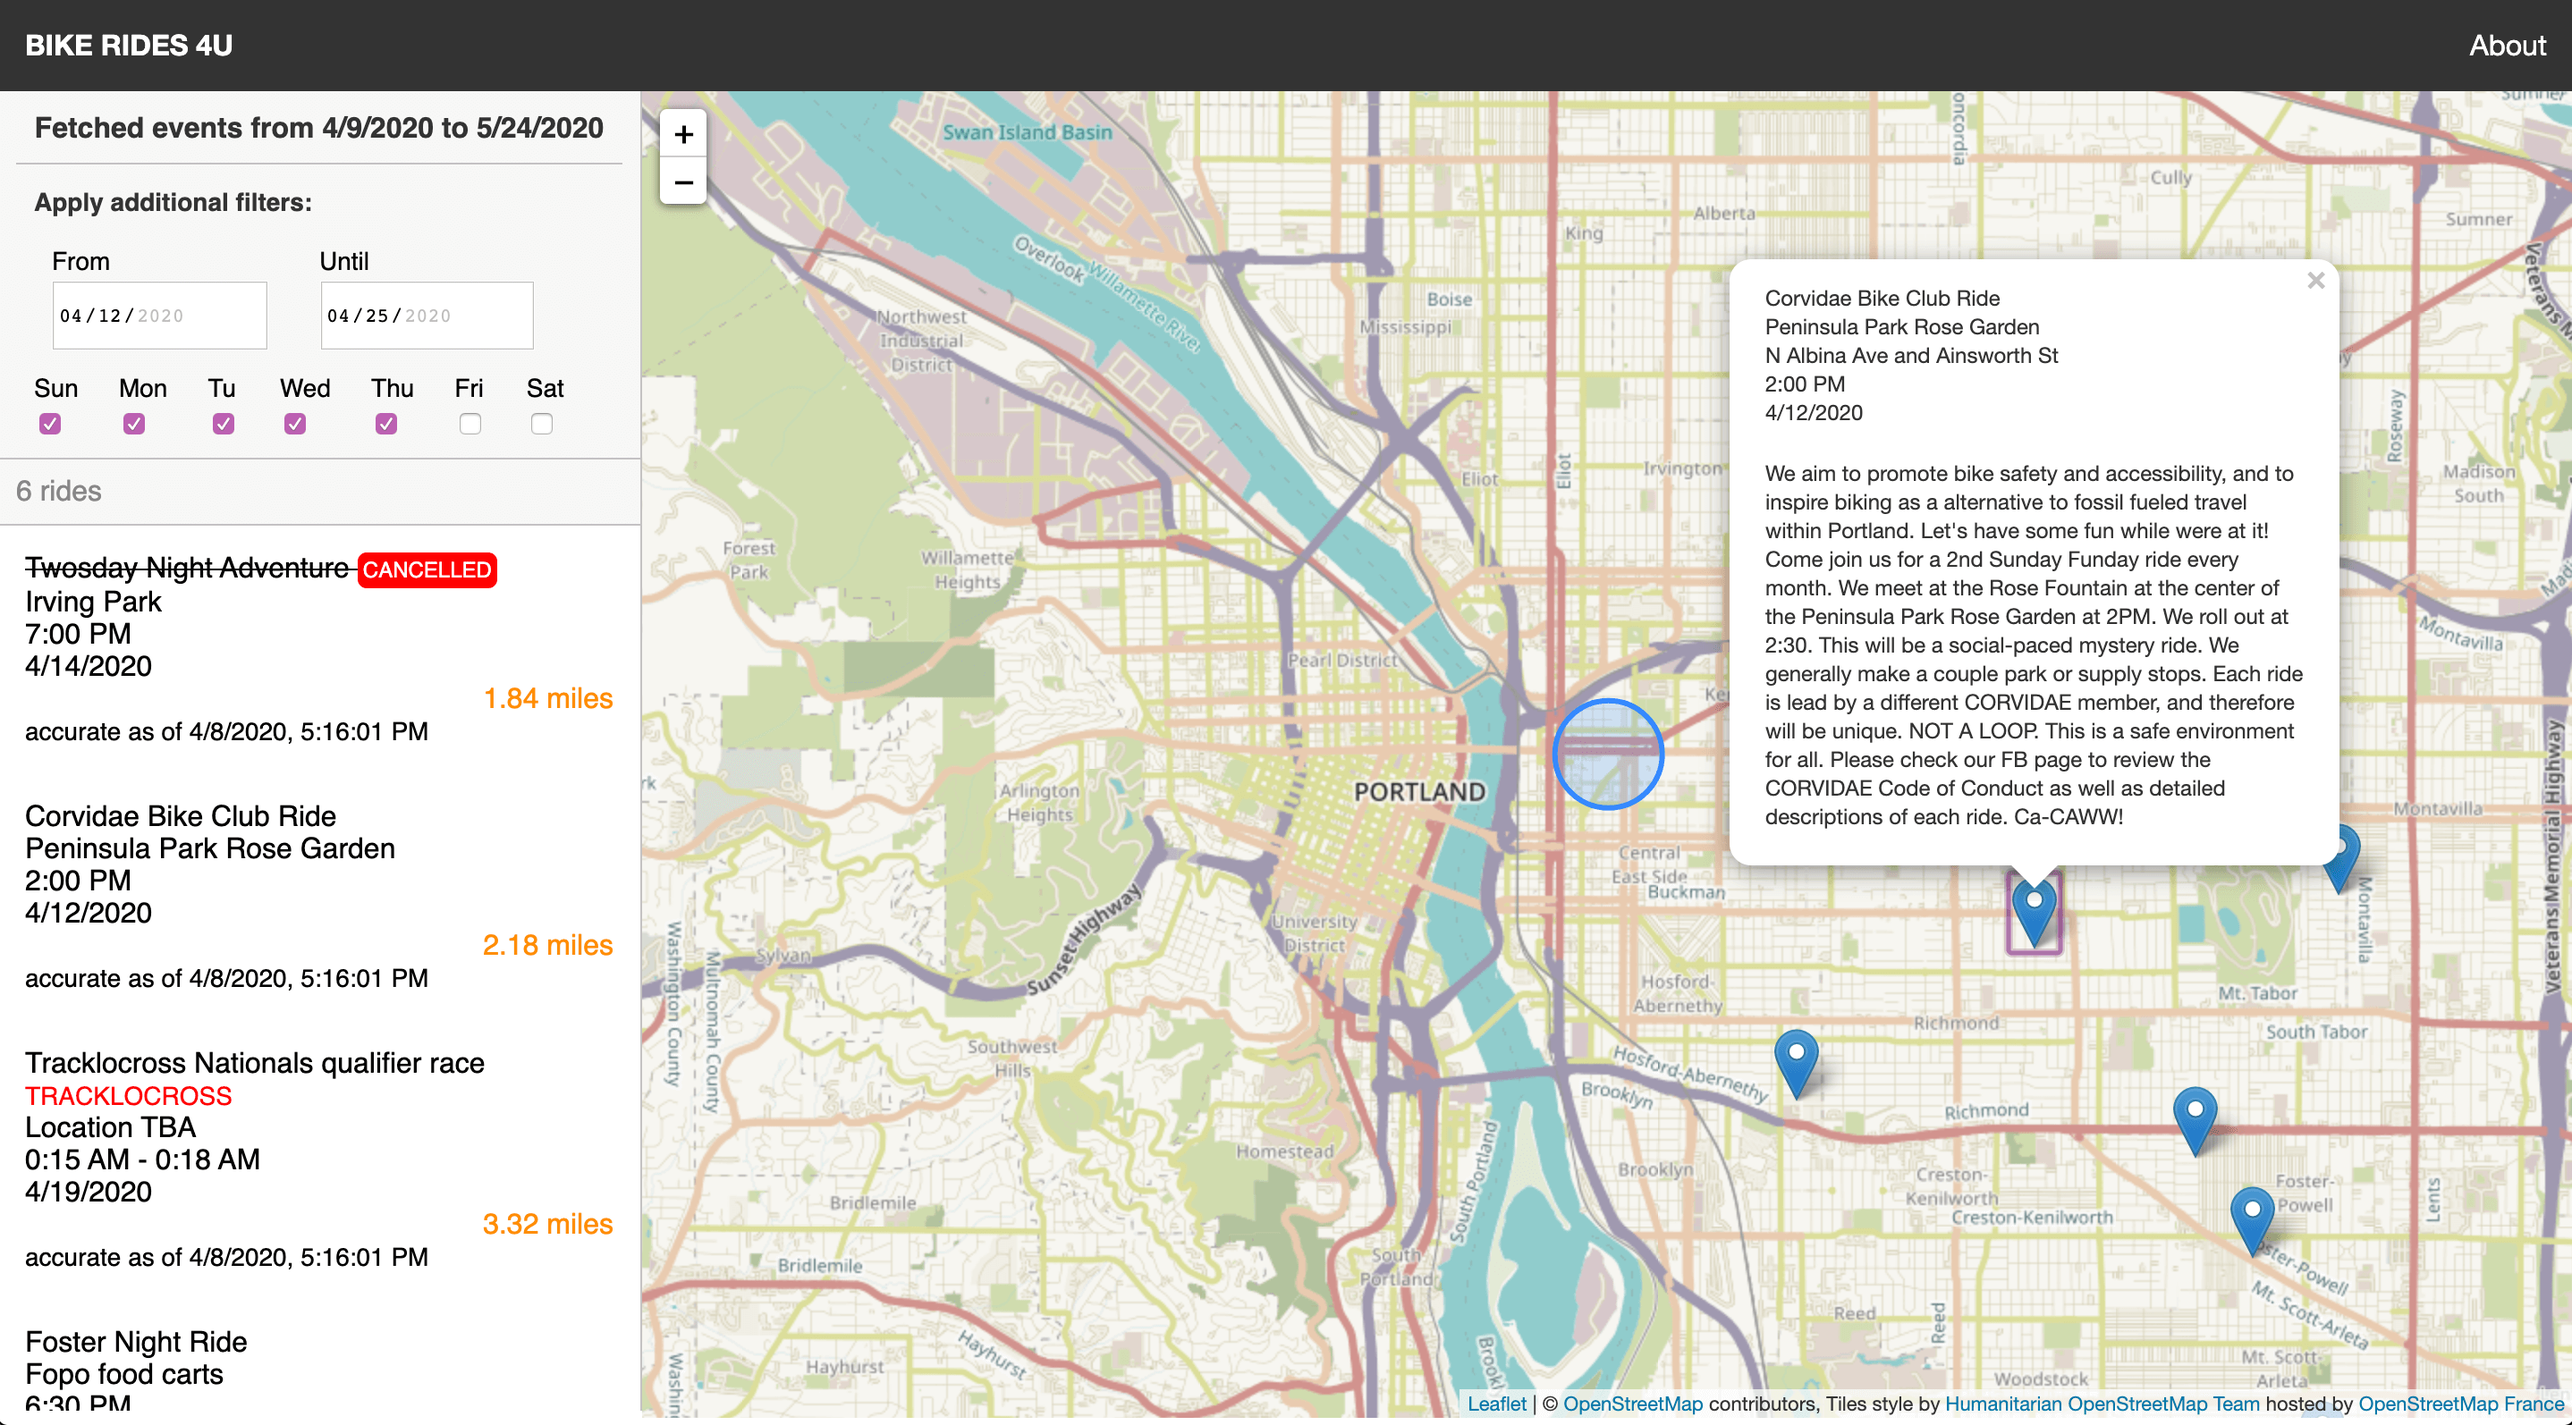
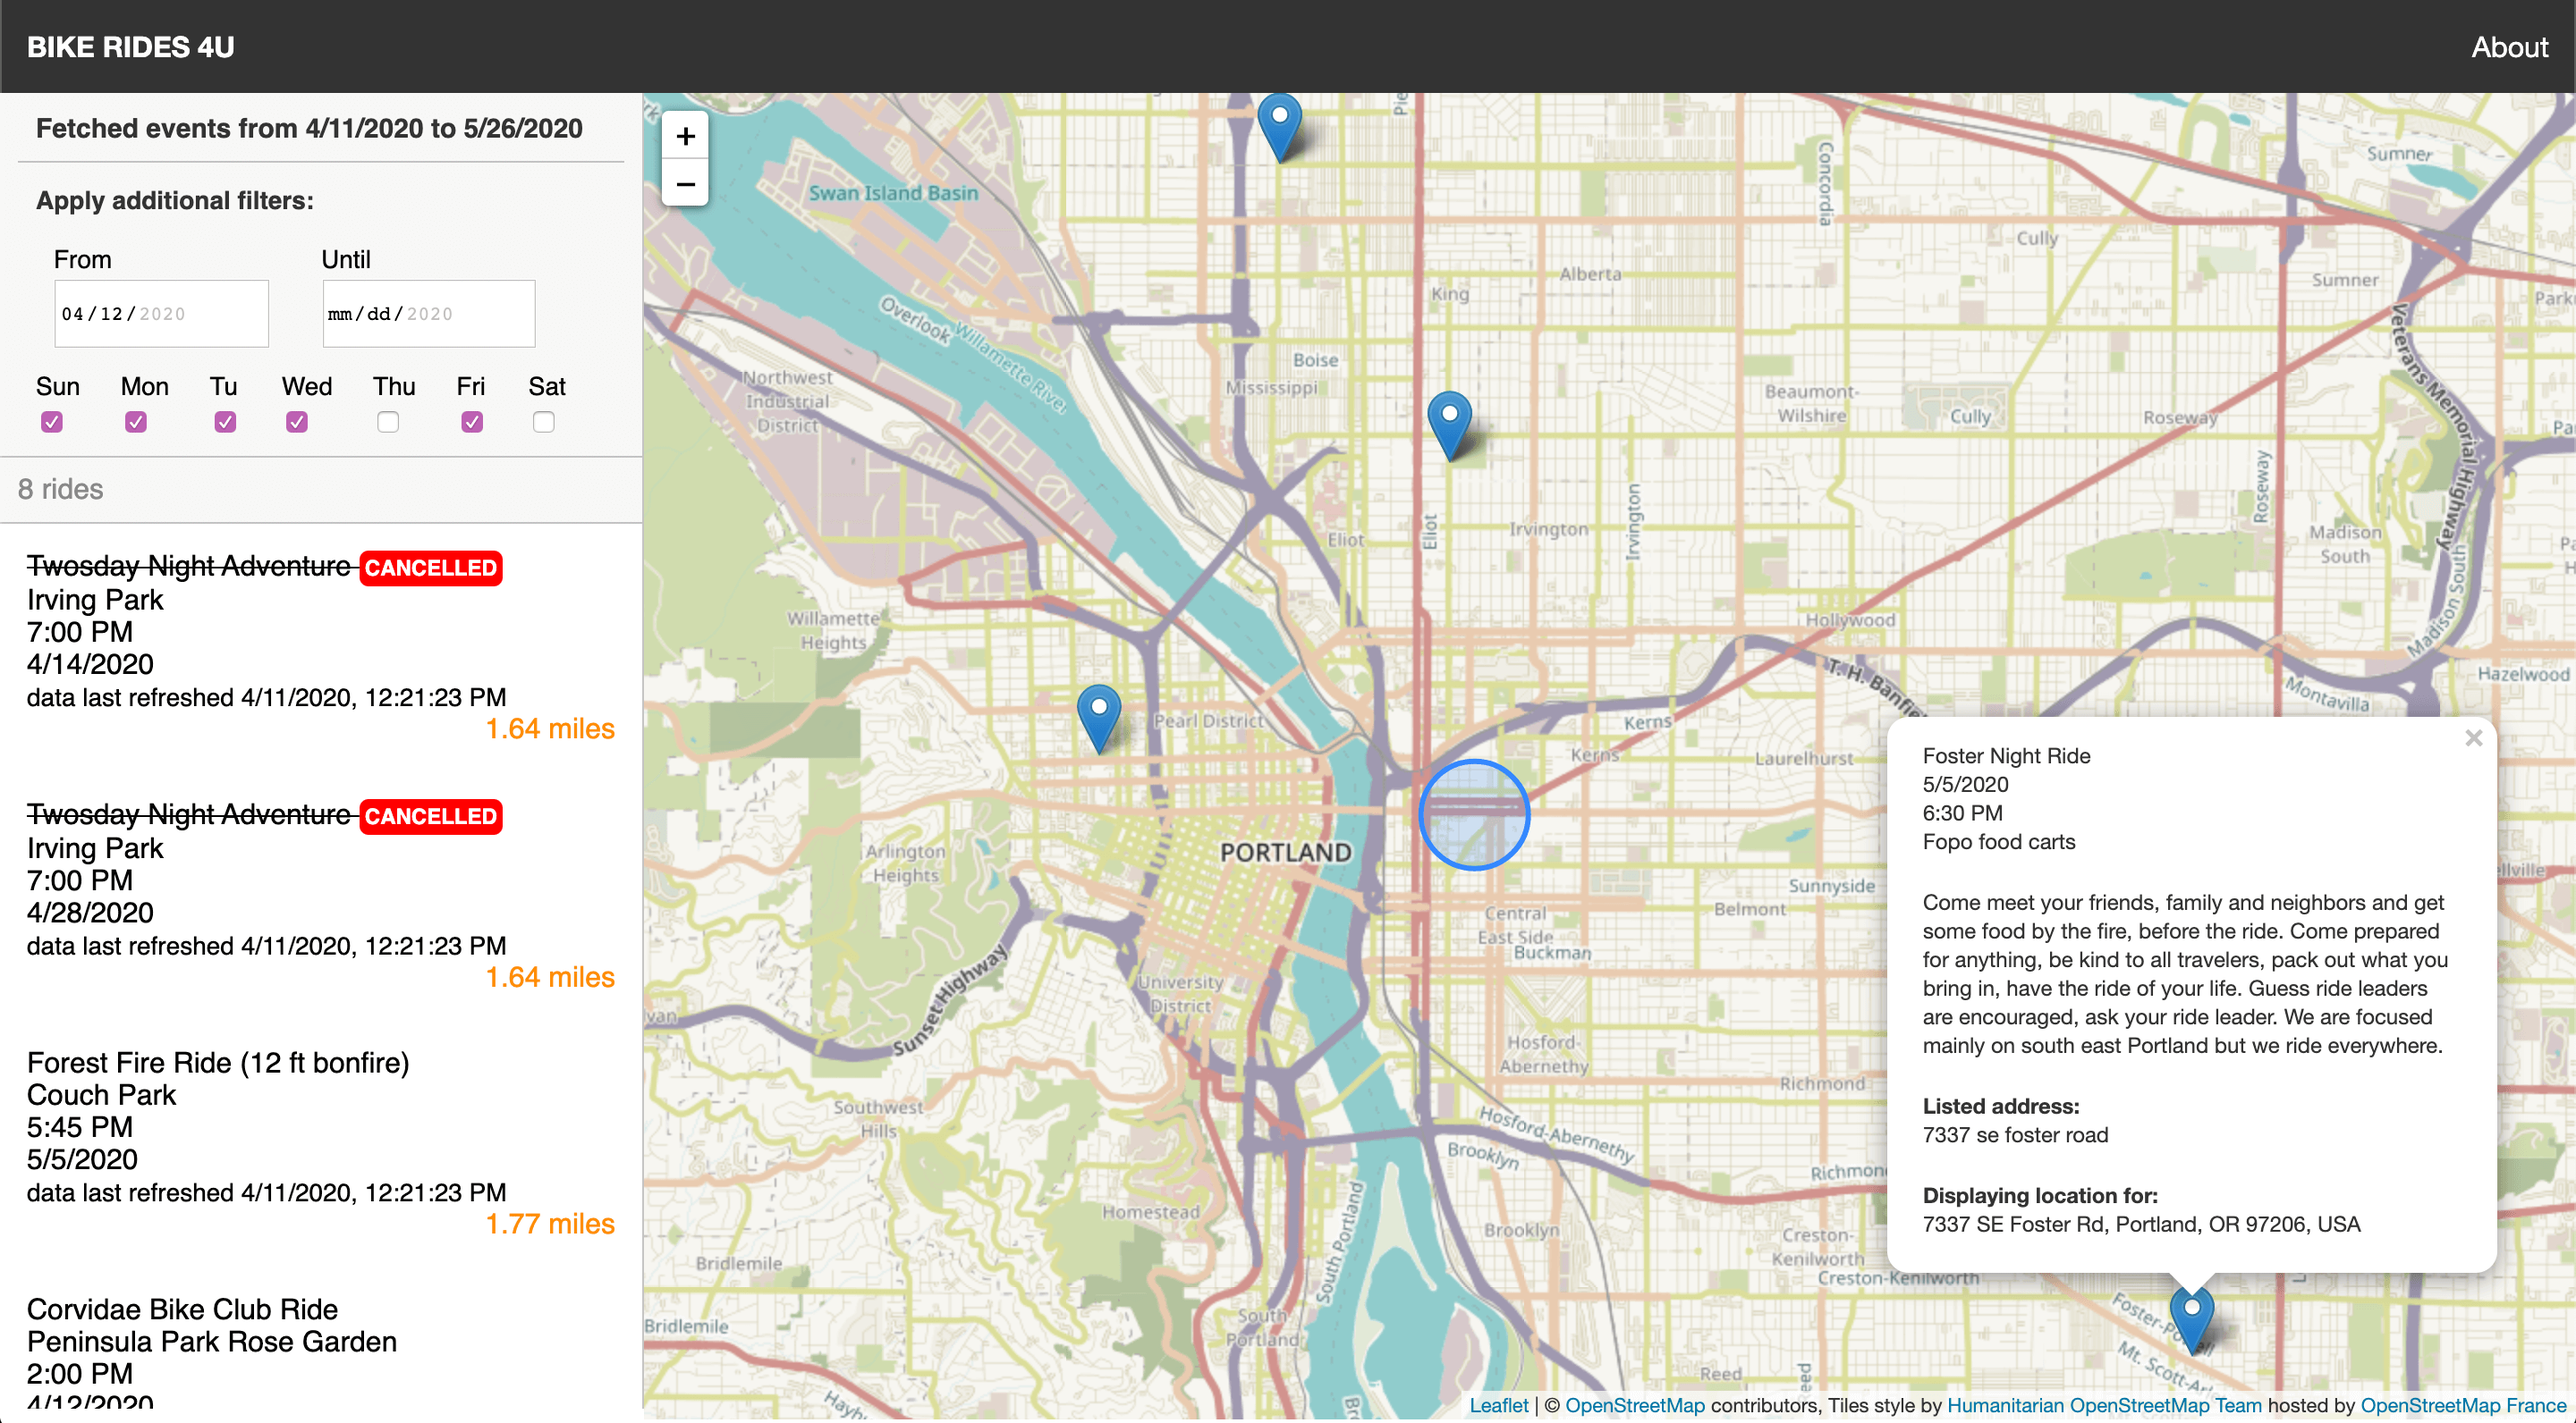
Fire map popup on list item click

diff --git a/src/components/Map.tsx b/src/components/Map.tsx
@@ -1,6 +1,7 @@
 import React, { Component } from 'react';
-import { Map as LeafletMap, TileLayer, Circle, Marker, Popup } from 'react-leaflet';
 import { LatLngTuple } from 'leaflet';
+import { Map as LeafletMap, TileLayer, Circle } from 'react-leaflet';
+import { Marker } from '.';
 import { Coordinate } from '../../br4u';
 import { FormattedEvent } from '../helpers/format-events';
 import './Map.css';
@@ -11,7 +12,7 @@ interface MapProps {
   selectedEventId?: string;
   points: FormattedEvent[];
 }
-export class Map extends Component<MapProps, {}> {
+export class Map extends Component<MapProps> {
   render(): JSX.Element {
     const { mapCenter, points, selectedEventId } = this.props;
     const position = [mapCenter.latitude, mapCenter.longitude] as LatLngTuple;
@@ -25,26 +26,7 @@ export class Map extends Component<MapProps, {}> {
           ></TileLayer>
           <Circle center={position} radius={400} />
           {points.map((point: FormattedEvent) => (
-            <div key={point.key}>
-              <Marker position={[point.latLng.latitude, point.latLng.longitude] as LatLngTuple}>
-                {/** FIXME: need to set some property...not isOpen..not sure what */}
-                <Popup isOpen={selectedEventId === point.id}>
-                  <div>{point.title}</div>
-                  <div>{point.friendlyDate}</div>
-                  <div>{point.times}</div>
-                  <div>{point.venue}</div>
-                  <p>{point.details}</p>
-                  <p>
-                    <strong>Listed address:</strong>
-                    <div>{point.address}</div>
-                  </p>
-                  <p>
-                    <strong>Displaying location for:</strong>
-                    <div>{point.geoLookupAddress}</div>
-                  </p>
-                </Popup>
-              </Marker>
-            </div>
+            <Marker isSelected={selectedEventId === point.id} point={point} key={point.key} />
           ))}
         </LeafletMap>
       </div>

diff --git a/src/components/Marker.tsx b/src/components/Marker.tsx
@@ -1,0 +1,49 @@
+import React, { createRef } from 'react';
+import { Marker as LeafletMarker, Popup } from 'react-leaflet';
+import { LatLngTuple } from 'leaflet';
+import { FormattedEvent } from '../helpers/format-events';
+
+interface MarkerProps {
+  isSelected: boolean;
+  point: FormattedEvent;
+  key: string;
+}
+export class Marker extends React.Component<MarkerProps, {}> {
+  markerRef = createRef<LeafletMarker>();
+
+  componentDidUpdate(): void {
+    const { isSelected } = this.props;
+    if (this.markerRef.current && isSelected) {
+      this.markerRef.current.leafletElement.openPopup();
+    }
+  }
+
+  render(): JSX.Element {
+    const { point } = this.props;
+    return (
+      <LeafletMarker
+        ref={this.markerRef}
+        position={[point.latLng.latitude, point.latLng.longitude] as LatLngTuple}
+        key={point.key}
+      >
+        <Popup>
+          <div>{point.title}</div>
+          <div>{point.friendlyDate}</div>
+          <div>{point.times}</div>
+          <div>{point.venue}</div>
+          <p>{point.details}</p>
+          <p>
+            <strong>Listed address:</strong>
+            <br />
+            {point.address}
+          </p>
+          <p>
+            <strong>Displaying location for:</strong>
+            <br />
+            {point.geoLookupAddress}
+          </p>
+        </Popup>
+      </LeafletMarker>
+    );
+  }
+}

diff --git a/src/components/index.tsx b/src/components/index.tsx
@@ -4,6 +4,7 @@ export * from './Event';
 export * from './EventList';
 export * from './FormDateField';
 export * from './Map';
+export * from './Marker';
 export * from './NavBar';
 export * from './Spinner';
 export * from './BlankState';

diff --git a/src/pages/Home.tsx b/src/pages/Home.tsx
@@ -52,7 +52,6 @@ export class Home extends Component<{}, HomeState> {
   }
 
   handleEventListItemClick = (id: string): void => {
-    console.log('click ', id);
     return this.setState({ selectedEventId: id });
   };
 

diff --git a/README.md b/README.md
@@ -8,8 +8,6 @@ This web app pings the Shift2Bikes calendar API and displays bike rides on an in
 
 ## MVP
 
-Complete:
-
 - [x] Fetch bike fun data from Shift2Bikes API
 - [x] Center map on lat/long from user's geo-location
 - [x] Display rides in list and actual ride location on map
@@ -17,12 +15,9 @@ Complete:
 - [x] Implement blank state, loaders, and cancelled event behavior
 - [x] Separate concerns of frontend and backend; create simple server
 - [x] Cache response from Shift2Bikes API in frontend, geocoding API service in backend
+- [x] Fire map marker click when user clicks on ride in list
 
-TODO:
-
-- [~] Fire map marker click when user clicks on ride in list
-
-## Cool ideas for later
+## Cool ideas for later / Possible Next Steps
 
 1. Add button: report a problem
 1. Add toggle: sort by distance vs date
@@ -64,7 +59,7 @@ git pull --recurse-submodules
 
 The local app reads static test data from a file by default, so there's no need to spin up the server if you are just concerned with its frontend.
 
-To enable live data, run the server by following instructions on [its GitHub repo](https://github.com/theholla/br4u-backend). Then, back in this app, set `REACT_APP_USE_LIVE_DATA` to `true` in the `.env` file and restart the app.
+To enable live data, run the [companion backend server](https://github.com/theholla/br4u-backend) by following instructions on its GitHub repo. Then, back in this app, set `REACT_APP_USE_LIVE_DATA` to `true` in the `.env` file and restart the app.
 
 ## About Shift2Bikes
 
